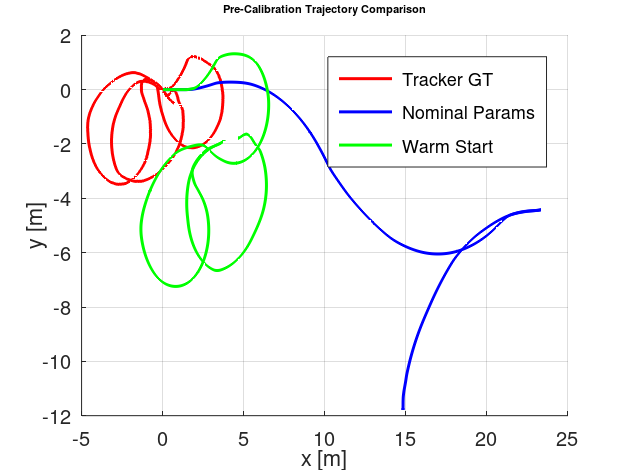
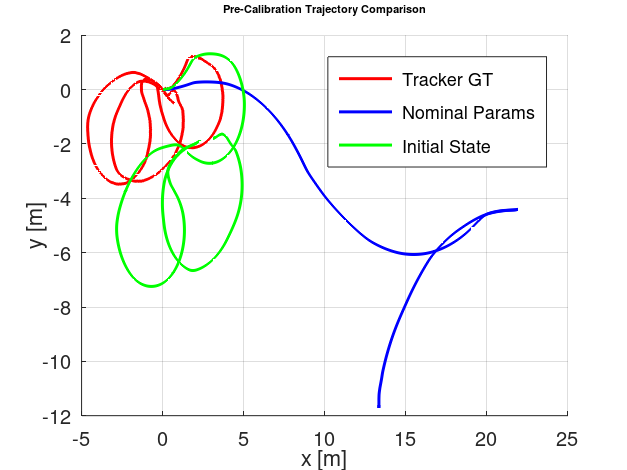
I have realized there was a massive error generated from the initial estimated sensor pose and the initial tracker pose, I did an allignment in order to force both to start from zero, this way the algorithm converges way better and the chi decreases nicely. I also had mistaken one nominal parameter.

diff --git a/calibration.m b/calibration.m
@@ -5,7 +5,18 @@ function calibration()
   filename = 'dataset.txt';
   [times, t_steer, t_traction, model_pose, tracker] = load_dataset(filename);
 
-  n = length(times);
+   n = length(times);
+
+  % Transform tracker to start at origin [0,0,0]
+  T0_inv = inv(v2t(tracker(1,:)));
+  tracker_aligned = zeros(size(tracker));
+  for i = 1:n
+      Ti = v2t(tracker(i,:));
+      tracker_aligned(i,:) = t2v(T0_inv * Ti)';
+  endfor
+  tracker = tracker_aligned;
+
+ 
   delta_traction = zeros(n, 1);
 
   % Traction encoder delta calculation with overflow/wraparound handling
@@ -36,7 +47,7 @@ function calibration()
   % 2. MODEL POSE ESTIMATE (NOMINAL PARAMETERS)
   %==========================================================================
   % Initial guess: [Ksteer, Ktraction, axis_length, steer_offset, x_sb, y_sb, theta_sb]
-  x = [0.1; 0.0106141; 1.4; 0; 1.4; 0; 0];  
+  x = [0.1; 0.0106141; 1.4; 0; 1.5; 0; 0];  
 
   T_base_pose = estimate_model_pose(x, ticks_vec);
 
@@ -50,10 +61,10 @@ function calibration()
   grid on;
 
   %==========================================================================
-  % 3. WARM START & SENSOR POSE ESTIMATE
+  % 3. INITIAL STATE & SENSOR POSE ESTIMATE
   %==========================================================================
   % Estimate initial parameters to ensure the optimization starts near reality
-  x_init = warm_start(ticks_vec, tracker, x);  
+  x_init =initial_state(ticks_vec, tracker, x);  
   
   ticks_vec_transposed = ticks_vec'; 
   T_sensor_pose = estimate_sensor_pose(x, ticks_vec_transposed);
@@ -64,7 +75,7 @@ function calibration()
   plot(tracker(:,1), tracker(:,2), 'r-', 'LineWidth', 1.5);
   plot(T_sensor_pose(:,1), T_sensor_pose(:,2), 'b-', 'LineWidth', 1.5);
   plot(T_sensor_pose_init(:,1), T_sensor_pose_init(:,2), 'g-', 'LineWidth', 1.5);
-  legend('Tracker GT', 'Nominal Params', 'Warm Start');
+  legend('Tracker GT', 'Nominal Params', 'Initial State');
   xlabel('x [m]'); ylabel('y [m]');
   title('Pre-Calibration Trajectory Comparison');
   grid on;
@@ -128,12 +139,15 @@ function calibration()
   line([0 length(err)], [0 0], 'Color', 'k', 'LineStyle', '--');
 
   % --- SAVE PLOTS TO DISK (Low Resolution) ---
-  fprintf('\nSaving plots to current directory...\n');
-  print(1, '01_base_trajectory.png', '-dpng', '-r72');
-  print(2, '02_pre_calibration.png', '-dpng', '-r72');
-  print(4, '04_final_trajectory.png', '-dpng', '-r72');
-  print(5, '05_error_analysis.png', '-dpng', '-r72');
-  fprintf('Plots saved successfully.\n');
+  fprintf('\nSaving plots to directory "plots"...\n');
+  if ~exist('plots', 'dir')
+      mkdir('plots');
+  end
+  print(1, 'plots/01_base_trajectory.png', '-dpng', '-r72');
+  print(2, 'plots/02_pre_calibration.png', '-dpng', '-r72');
+  print(4, 'plots/04_final_trajectory.png', '-dpng', '-r72');
+  print(5, 'plots/05_error_analysis.png', '-dpng', '-r72');
+  fprintf('plots/Plots saved successfully.\n');
 
 endfunction
 
@@ -166,11 +180,13 @@ function h_odom = estimate_model_pose(x, ticks)
   dl = (ktraction/5000) * ticks(:,2);
   dphi = (k_steer*2*pi/8192) * ticks(:,1) + steer_offset;
   h_odom = zeros(n, 3);
-  h_odom(1, :) = [0, 0, 0];
-  for i = 2:n
-    xp(i) = xp(i-1) + dl(i) * cos(thetap(i-1))*cos(dphi(i));
-    yp(i) = yp(i-1) + dl(i) * sin(thetap(i-1))*cos(dphi(i));
-    thetap(i) = thetap(i-1) + dl(i)*sin(dphi(i))/b;
+  for i = 1:n
+    if i > 1
+      xp(i) = xp(i-1) + dl(i) * cos(thetap(i-1)) * cos(dphi(i));
+      yp(i) = yp(i-1) + dl(i) * sin(thetap(i-1)) * cos(dphi(i));
+      thetap(i) = thetap(i-1) + dl(i) * sin(dphi(i)) / b;
+    endif
+    
     h_odom(i, :) = [xp(i), yp(i), thetap(i)];
   endfor
 endfunction
@@ -179,18 +195,30 @@ function h_odom = estimate_sensor_pose(x, ticks)
   k_steer = x(1); ktraction = x(2); b = x(3); steer_offset = x(4);
   x_sb = x(5); y_sb = x(6); theta_sb = x(7);
   n = size(ticks, 2);
-  xp = zeros(n, 1); yp = zeros(n, 1); thetap = zeros(n, 1);
   dl = (ktraction/5000) * ticks(2,:)';
   dphi = (k_steer*2*pi/8192) * ticks(1,:)' + steer_offset;
-  Tbs = [cos(theta_sb) -sin(theta_sb) x_sb; sin(theta_sb) cos(theta_sb) y_sb; 0 0 1];
+  Tbs = v2t([x_sb; y_sb; theta_sb]);
   h_odom = zeros(n, 3);
-  h_odom(1, :) = [xp(1), yp(1), thetap(1)];
-  for i = 2:n
-    xp(i) = xp(i-1) + dl(i) * cos(thetap(i-1))*cos(dphi(i));
-    yp(i) = yp(i-1) + dl(i) * sin(thetap(i-1))*cos(dphi(i));
-    thetap(i) = thetap(i-1) + dl(i)*sin(dphi(i))/b;
+
+  xp = zeros(n,1); yp = zeros(n,1); thetap = zeros(n,1);
+
+  for i = 1:n
+    if i > 1
+      xp(i) = xp(i-1) + dl(i) * cos(thetap(i-1)) * cos(dphi(i));
+      yp(i) = yp(i-1) + dl(i) * sin(thetap(i-1)) * cos(dphi(i));
+      thetap(i) = thetap(i-1) + dl(i) * sin(dphi(i)) / b;
+    endif
+    
     Twb = v2t([xp(i), yp(i), thetap(i)]);
     h_odom(i, :) = t2v(Twb * Tbs)';
+  endfor
+
+  % Forza anche la predizione a partire da [0,0,0]
+  % Questo annulla l'offset costante di 1.4m per l'ottimizzatore
+  T_start_inv = inv(v2t(h_odom(1,:)));
+  for i = 1:n
+      Ti = v2t(h_odom(i,:));
+      h_odom(i,:) = t2v(T_start_inv * Ti)';
   endfor
 endfunction
 
@@ -227,8 +255,9 @@ function J_all = precompute_jacobians(x, ticks)
   endfor
 endfunction
 
-function x = warm_start(ticks, tracker, x_nom)
+function x = initial_state(ticks, tracker, x_nom)
   k_s_nom = x_nom(1); k_t_nom = x_nom(2); b_nom = x_nom(3);
+  s_o_nom = x_nom(4); x_sb_nom = x_nom(5); y_sb_nom = x_nom(6); theta_sb_nom = x_nom(7);
   t_steer = ticks(:, 1);
   dtrac   = ticks(:, 2);
   steer_ang = (k_s_nom * 2 * pi / 8192) * t_steer;
@@ -238,9 +267,8 @@ function x = warm_start(ticks, tracker, x_nom)
   dth_trk = diff(tracker(:, 3)); tot_trk = sum(abs(atan2(sin(dth_trk), cos(dth_trk))));
   tot_odom = sum(abs(dtrac * k_t / 5000 .* sin(steer_ang) / b_nom));
   k_s      = k_s_nom * tot_trk / max(tot_odom, 1e-9);
-  max_t = max(abs(t_steer));
-  if k_s * 2 * pi / 8192 * max_t > pi / 3, k_s = (pi/3)*8192/(2*pi*max_t); end
-  x = [k_s; k_t; b_nom; 0; 1.5; 0; 0];
+  
+  x = [k_s; k_t; b_nom;s_o_nom ; x_sb_nom;y_sb_nom ; theta_sb_nom];
 endfunction
 
 function A = v2t(v)
